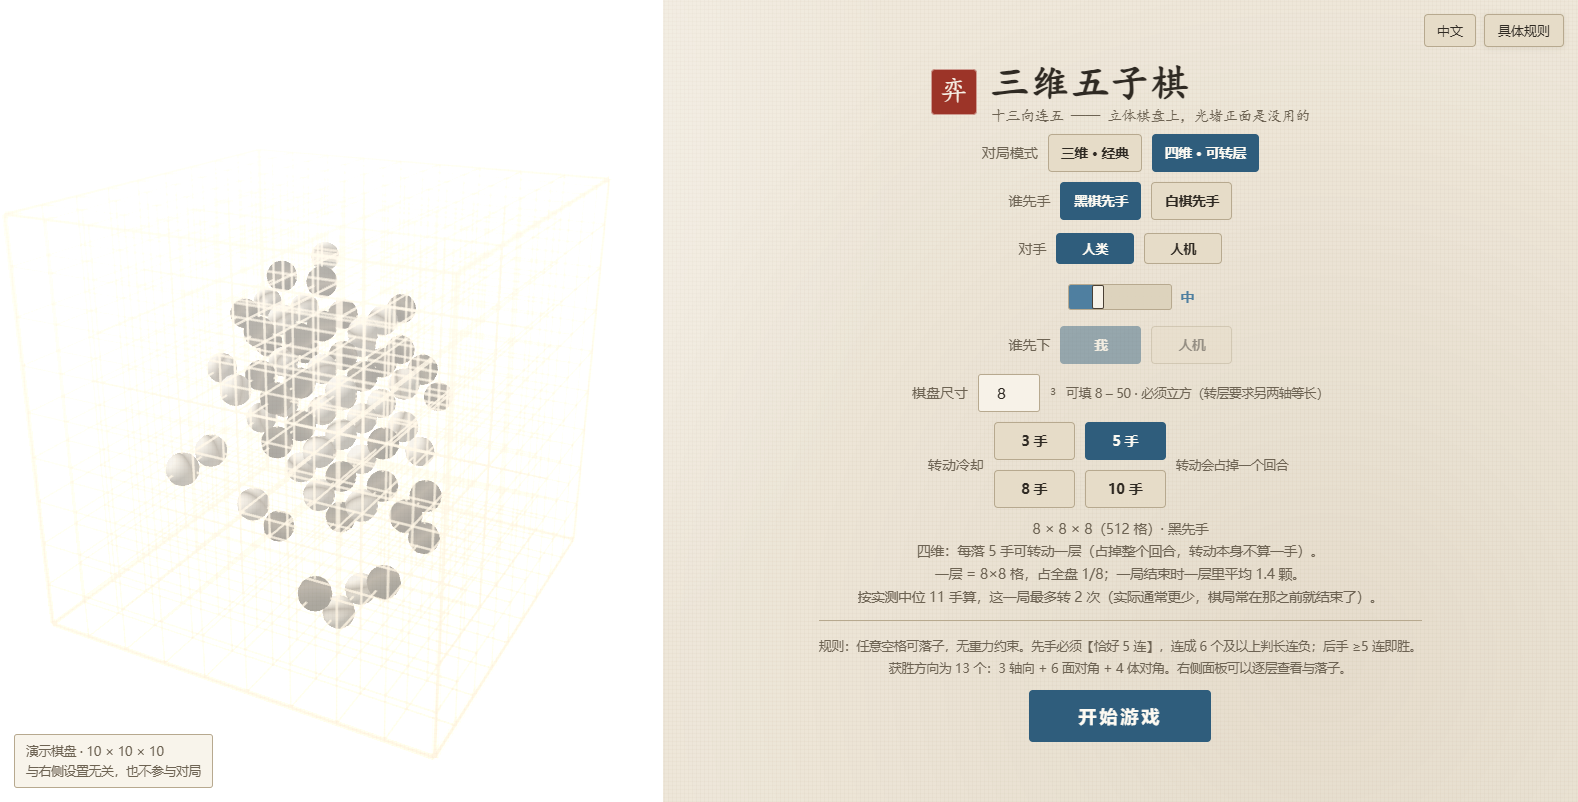
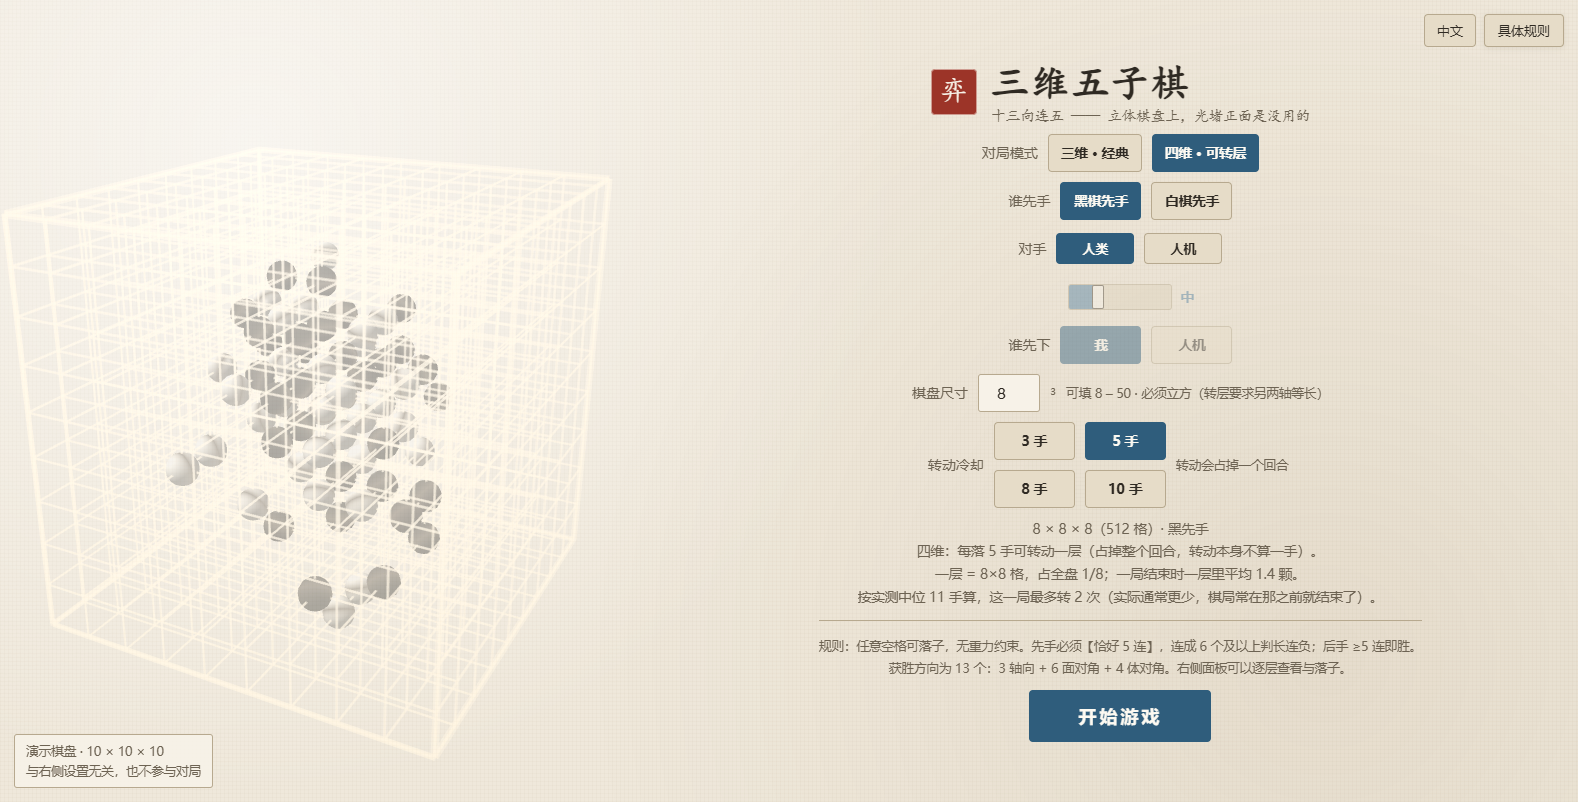
修复若干问题（v2.10.8）
① 起始界面左边半屏变成纯白（v2.10.7 引入的）
   清屏写的是 clearColor(--bg 的 RGB, alpha 0)。画布是 premultipliedAlpha，
   缓冲区里存的是预乘过的颜色 —— alpha=0 就意味着 RGB 也必须全是 0；而 clearColor
   是把 RGB 原样写进去、不做预乘的。于是这组"RGB 比 alpha 还大"的非法预乘值交给
   合成器之后，左半屏被合成为纯白 (255,255,255)，比不透明清屏还糟。
   改成真·透明黑 (0,0,0,0)（对局里仍是不透明的 --bg，画面没动）。
   v2.10.7 的断言只查了"清屏色的 alpha 是 0"—— 那是画布自己的状态，而错发生在
   合成器里，所以它全绿而页面是白的。新增两条合成之后的断言：清屏 RGB 必须全是 0；
   以及"藏起画布前后左半屏逐点相同"（真截图数像素，解码只用 node 自带的 zlib）。
   实测：修好后 112 个采样点里 70 个逐字节相同、差值中位数 0（其余是演示盘自己的
   格线和棋子）；出错那一版是 0 个相同、中位数 28。

② 刚打开页面时强度拉条还能拖、「谁先下」还能点
   拉条的禁用/淡显和「谁先下」的禁用原来只写在 setSetupAi 里，而它只在【点击】时
   跑，启动和切语言都不经过它 —— 于是默认「人类」的初始界面里这两样都是活的。
   抽出 syncAiRow()，由 openSetup() 和 applyLang()（启动 + 切语言）各刷一遍。
   新增 4 条断言，其中一条是在"页面刚加载完、一个字都还没设过"的时刻用真鼠标拖一次。
   （原来拉条那一节查的是 Game.setSetupAi(...) 设过之后的状态，正好绕过这个 bug。）

断言 40718 → 40725（browser-check 298 → 305）。

Changed region(s): [[0.0, 0.0, 0.4347, 1.0], [0.6521, 0.3429, 0.7142, 0.4052]]

diff --git a/Web_Gomoku3D/index.html b/Web_Gomoku3D/index.html
@@ -6690,6 +6690,10 @@ const Game = {
     if (this.session) this.refreshTexts();
     this.syncSetupInputs();
     this.syncCoolRow();
+    // 【拉条的禁用状态也要在这里落一次】它原来只在 setSetupAi 里写，而那个函数只在
+    // **点击**时跑 —— 于是刚打开页面时（HTML 默认「人类」）拉条是满色、拖得动的，
+    // 「谁先下」两个键也点得动。applyLang 是**启动时**和切语言时都必经的唯一收口。
+    this.syncAiRow();
     // 档位名换了语言就要重刷（它是 say() 写的，applyStatic 管不到）
     this.syncAiLevel();
     // 行标换了语言、宽度就变了，同宽那条得重量一次
@@ -7297,7 +7301,8 @@ const Game = {
     this.setHover(null);
     this.syncSetupInputs();
     this.syncCoolRow();
-    this.syncOrderRow();
+    // 「对手」那一行的禁用/高亮（含「谁先下」）—— 见 syncAiRow 的注释
+    this.syncAiRow();
     this.syncAiLevel();
     this.syncLabelWidth();
     this.refreshSetupSummary();
@@ -7402,8 +7407,19 @@ const Game = {
     // 左边就只透出 70% 强度的纸纹（0.3 × 纯色 + 0.7 × 纸纹），而右边是满的 ——
     // 中间那条【缝】是没了，但两半的亮度差着一档，看着还是两块不同的纸。
     // 清成透明之后，纸纹原样透出来，两半逐像素同色。（画布因此必须开 alpha，见 Renderer.init）
-    const bgc = Palette.rgb("--bg");
-    gl.clearColor(bgc[0], bgc[1], bgc[2], this.setupOpen ? 0 : 1);
+    //
+    // 【透明必须是"透明的黑"，不能是"(--bg 的 RGB, alpha 0)"】——踩过一次，代价是整块变白：
+    // 画布是 premultipliedAlpha（WebGL 默认），缓冲区里存的是【预乘过】的颜色，
+    // alpha=0 就意味着 RGB 也必须是 0。而 clearColor 是把 RGB 原样写进去的、不做预乘，
+    // 于是 (239,232,219,0) 这组"RGB 比 alpha 还大"的非法预乘值交给合成器之后，
+    // 左边半屏被合成为**纯白 (255,255,255)**，比不透明清屏还糟。
+    // 读回像素只看 alpha 是看不出来的（alpha 确实是 0），必须看合成后的截图才现形 ——
+    // browser-check 里那条"藏起画布前后左半屏必须逐点相同"就是为它加的。
+    if (this.setupOpen) gl.clearColor(0, 0, 0, 0);
+    else {
+      const bgc = Palette.rgb("--bg");
+      gl.clearColor(bgc[0], bgc[1], bgc[2], 1);
+    }
     gl.clear(gl.COLOR_BUFFER_BIT | gl.DEPTH_BUFFER_BIT);
 
     // 【注意这里传的是 CSS 像素高，不是设备像素高】：平移量是按 CSS 像素记的
@@ -8921,18 +8937,36 @@ const Game = {
 
   setSetupAi(v) {
     this.setupAi = (v === "cpu") ? "cpu" : "human";
+    this.syncAiRow();
+    this.syncAiLevel();
+    this.refreshSetupSummary();
+  },
+
+  /**
+   * 把「对手」那一行的**派生状态**全部刷成 this.setupAi 的样子：两个按钮的高亮、
+   * 强度拉条的淡显与禁用、以及「谁先下」那一行的禁用。
+   *
+   * 【为什么必须从 setSetupAi 里抽出来】这些原来只写在 setSetupAi 里，而它只在
+   * **点击**时跑 —— 于是**刚打开页面时**（HTML 里默认是「人类」）拉条是满色的、拖得动，
+   * 「谁先下」两个键也点得动：状态和「人类」这个选择对不上，看起来像没做这个功能。
+   * 启动路径和切语言路径都不经过 setSetupAi，所以那两处要各自刷一遍。
+   *
+   * 【收口到 openSetup / applyLang 两个地方】openSetup 是"从对局里点设置进来"，
+   * applyLang 是"启动 + 切语言"，两者合起来覆盖了起始界面出现的全部时机。
+   */
+  syncAiRow() {
     for (const id of ["aiHuman", "aiCpu"]) {
       const el = this.el[id];
       // dataset.ai 就是 setupAi 的取值本身（human/cpu），少一张表就少一处会漂移的地方
       if (el) el.classList.toggle("sel", el.dataset.ai === this.setupAi);
     }
-    // 没选人机时**淡显 + 不可点**，不是藏起来 —— 和 #coolRow 在三维下同一套，见 CSS 那段注释
+    // 没选人机时**淡显 + 不可点**，不是藏起来 —— 和 #coolRow 在三维下同一套，见 CSS 那段注释。
+    // disabled 才是真正"点不动"的那一半，opacity 只是让人看出来它现在是死的。
     const dim = this.setupAi !== "cpu";
     if (this.el.aiRange) this.el.aiRange.disabled = dim;
     if (this.el.aiLevel) this.el.aiLevel.classList.toggle("dim", dim);
-    this.syncAiLevel();
+    // 人人对战里「谁先下」没有意义（没有电脑可先下），一并跟着这个开关禁用
     this.syncOrderRow();
-    this.refreshSetupSummary();
   },
 
   /** 拖动拉条 / 键盘左右键都会走这里。i 是 0..4 的下标。 */

diff --git a/README.md b/README.md
@@ -7,7 +7,7 @@
 
 [![在线试玩](https://img.shields.io/badge/%E5%9C%A8%E7%BA%BF%E8%AF%95%E7%8E%A9-awua--dcm.github.io-2f6f4e?style=for-the-badge)](https://awua-dcm.github.io/gomoku-3d-4d/)
 [![形态](https://img.shields.io/badge/%E5%BD%A2%E6%80%81-%E5%8D%95%E6%96%87%E4%BB%B6_%C2%B7_%E9%9B%B6%E4%BE%9D%E8%B5%96-8a6d3b?style=flat-square)](Web_Gomoku3D/index.html)
-[![断言](https://img.shields.io/badge/%E6%96%AD%E8%A8%80-40718_%E9%A1%B9%E5%85%A8%E7%BB%BF-2f6f4e?style=flat-square)](_verify/run-all.sh)
+[![断言](https://img.shields.io/badge/%E6%96%AD%E8%A8%80-40725_%E9%A1%B9%E5%85%A8%E7%BB%BF-2f6f4e?style=flat-square)](_verify/run-all.sh)
 [![许可](https://img.shields.io/badge/license-MIT-4c8bf5?style=flat-square)](LICENSE)
 
 在线试玩跑的就是仓库里这份 `index.html` 原件，托管在 GitHub Pages —— 没有构建步骤，
@@ -80,7 +80,7 @@ bash _verify/run-all.sh
 九步，期望结果：
 
 ```
-11733 + 19408 + 98 + 114 + 107 + 8845 + 115 + 298 = 40718 项断言全绿
+11733 + 19408 + 98 + 114 + 107 + 8845 + 115 + 305 = 40725 项断言全绿
 ```
 
 第 9 步（真实无头浏览器检查）是可选的：本机没装 Chrome/Edge 会自动跳过，不算失败。
@@ -97,7 +97,7 @@ bash _verify/run-all.sh
 | `node Web_Gomoku3D/tests/dom-smoke.test.mjs` | 107 | 界面桩环境（含六语言文案齐全性、手势与复位的边界值、拖拽方向约定） |
 | `node Web_Gomoku3D/tests/online.test.mjs` | 8845 | 联机内核：和网页版逐格对拍 1156 组 |
 | `node Web_Gomoku3D/tests/online-http.test.mjs` | 115 | 联机 HTTP 层（本机 loopback） |
-| `node _verify/browser-check.mjs` | 298 | 真实浏览器（GLSL 编译、布局几何、控制台报错、六语言逐屏扫描、合成多点触摸、真定时器下的人机对局） |
+| `node _verify/browser-check.mjs` | 305 | 真实浏览器（GLSL 编译、布局几何、控制台报错、六语言逐屏扫描、合成多点触摸、真定时器下的人机对局） |
 
 后两项联机测试在第 8 步里跑，**不可跳过**（端口是随机挑的空闲端口）。
 另有三个注入验证脚本，专门证明上面那些检查**真的会红**：
@@ -223,6 +223,7 @@ bash _verify/run-all.sh
 
 ### 2026.09.27
 
+- 🐛 **v2.10.8** 修复若干问题
 - 🐛 **v2.10.7** 修复若干问题
 - 🎨 **v2.10.6** 调整起始界面：六种语言下行标同宽、按键等宽，行与行对齐；顺带把整列收紧，让「开始游戏」在 800px 高的窗口里也回到屏幕内
 - 🎨 **v2.10.5** 调整起始界面：强度拉条居中；没选「人机」时改为淡显、不可点（不再隐藏，和转动冷却在三维下的处理同一套）

diff --git a/README.en.md b/README.en.md
@@ -7,7 +7,7 @@
 
 [![Play online](https://img.shields.io/badge/Play_online-awua--dcm.github.io-2f6f4e?style=for-the-badge)](https://awua-dcm.github.io/gomoku-3d-4d/)
 [![Form](https://img.shields.io/badge/form-single_file_%C2%B7_zero_deps-8a6d3b?style=flat-square)](Web_Gomoku3D/index.html)
-[![Assertions](https://img.shields.io/badge/assertions-40718_passing-2f6f4e?style=flat-square)](_verify/run-all.sh)
+[![Assertions](https://img.shields.io/badge/assertions-40725_passing-2f6f4e?style=flat-square)](_verify/run-all.sh)
 [![License](https://img.shields.io/badge/license-MIT-4c8bf5?style=flat-square)](LICENSE)
 
 The online demo serves the very same `index.html` that is in this repository, hosted on
@@ -81,7 +81,7 @@ bash _verify/run-all.sh
 **All you need is node** — no Unity, no .NET, no npm packages. Nine steps; expected result:
 
 ```
-11733 + 19408 + 98 + 114 + 107 + 8845 + 115 + 298 = 40718 assertions, all green
+11733 + 19408 + 98 + 114 + 107 + 8845 + 115 + 305 = 40725 assertions, all green
 ```
 
 Step 9 (a real headless-browser check) is optional: if Chrome or Edge isn't installed it is
@@ -98,7 +98,7 @@ To run one piece on its own:
 | `node Web_Gomoku3D/tests/dom-smoke.test.mjs` | 107 | UI against a DOM stub (includes the language switch, gesture and reset edge cases, drag-direction convention) |
 | `node Web_Gomoku3D/tests/online.test.mjs` | 8845 | Networking kernel, cell-by-cell against the web build (1156 cases) |
 | `node Web_Gomoku3D/tests/online-http.test.mjs` | 115 | Networking HTTP layer (loopback) |
-| `node _verify/browser-check.mjs` | 298 | Real browser (GLSL compilation, layout geometry, console errors, six-language screen sweep, synthesized multi-touch, a real-timer game against the computer) |
+| `node _verify/browser-check.mjs` | 305 | Real browser (GLSL compilation, layout geometry, console errors, six-language screen sweep, synthesized multi-touch, a real-timer game against the computer) |
 
 The two networking tests run inside step 8 and **cannot be skipped**.
 
@@ -256,6 +256,7 @@ is in [Web_Gomoku3D/README.md](Web_Gomoku3D/README.md) — in Chinese.
 
 ### 2026.09.27
 
+- 🐛 **v2.10.8** Fixed a few problems
 - 🐛 **v2.10.7** Fixed a few problems
 - 🎨 **v2.10.6** Start screen: in all six languages the row labels share one column width and the buttons have a uniform minimum width, so every row lines up; the column was tightened to keep "Start game" above the fold
 - 🎨 **v2.10.5** Start screen: the strength slider is centred; with "Human" selected it is now dimmed and non-interactive rather than hidden (the same treatment the rotation-cooldown buttons get in 3D mode)

diff --git a/打开流程.md b/打开流程.md
@@ -52,7 +52,7 @@ bash _verify/run-all.sh
 
 九步（第 9 步可选）。**不需要 Unity，也不需要 .NET，只要有 node。**
 
-期望结果：11733 + 19408 + 98 + 114 + 107 + 8845 + 115 + 298 = **40718 项断言全绿**。
+期望结果：11733 + 19408 + 98 + 114 + 107 + 8845 + 115 + 305 = **40725 项断言全绿**。
 
 单跑某一项：
 
@@ -65,7 +65,7 @@ bash _verify/run-all.sh
 | `node Web_Gomoku3D/tests/dom-smoke.test.mjs` | 107（界面桩环境，含六语言文案齐全性） |
 | `node Web_Gomoku3D/tests/online.test.mjs` | 8845（联机内核与网页版逐格对拍） |
 | `node Web_Gomoku3D/tests/online-http.test.mjs` | 115（联机 HTTP 层） |
-| `node _verify/browser-check.mjs` | 298（真实无头浏览器；没装浏览器会自动跳过） |
+| `node _verify/browser-check.mjs` | 305（真实无头浏览器；没装浏览器会自动跳过） |
 
 第 9 步的截图落在 `_verify/shots/`。
 
@@ -97,4 +97,4 @@ shell 会把它拆成多个参数，然后拼出一个不存在的路径并**静
 | 英文的术语是否前后一致 | 同上；术语表在 `Web_Gomoku3D/README.md` |
 | **电脑对手的棋力手感** | 开一局人机，三档各下几盘。自动检查只验到"合法、不卡死、算得快、三档强弱关系对"，**"弱档是不是真的能被新手赢""中档是不是还有点意思"只能你自己下**。参考图 `_verify/shots/7-人机对战.png` |
 
-其余部分（40718 项断言）都已经真实跑过并通过。
+其余部分（40725 项断言）都已经真实跑过并通过。
